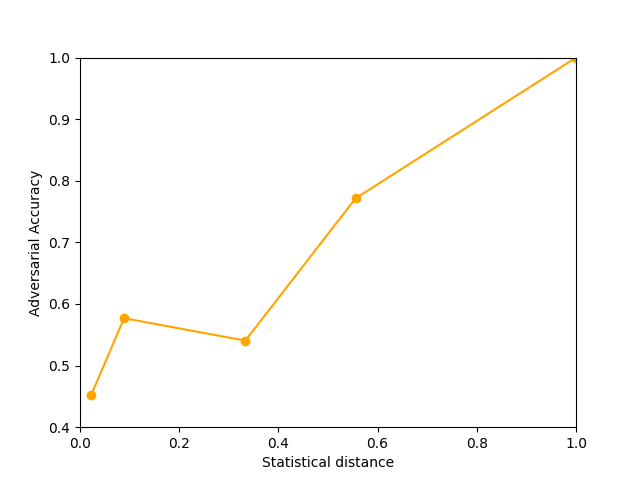
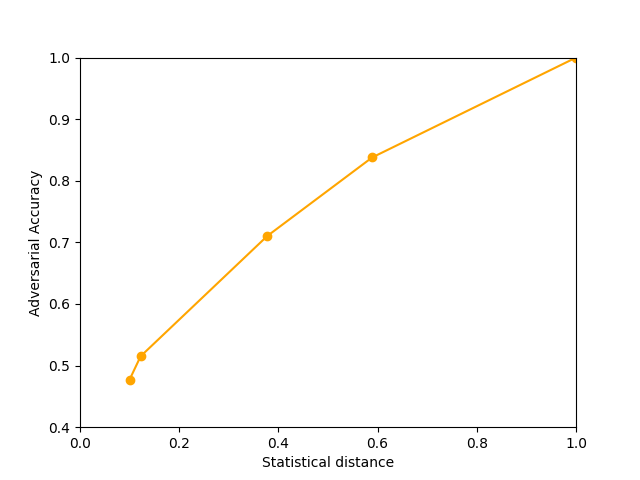
last commit

diff --git a/analysis.py b/analysis.py
@@ -116,7 +116,7 @@ for fair in Fairs:
         embedding_1,
         hidden_dim=32,
         n_layers=3,
-        n_epochs=300,
+        n_epochs=100,
         report_accuracy=True,
     )
     add_accs.append(add_acc)
